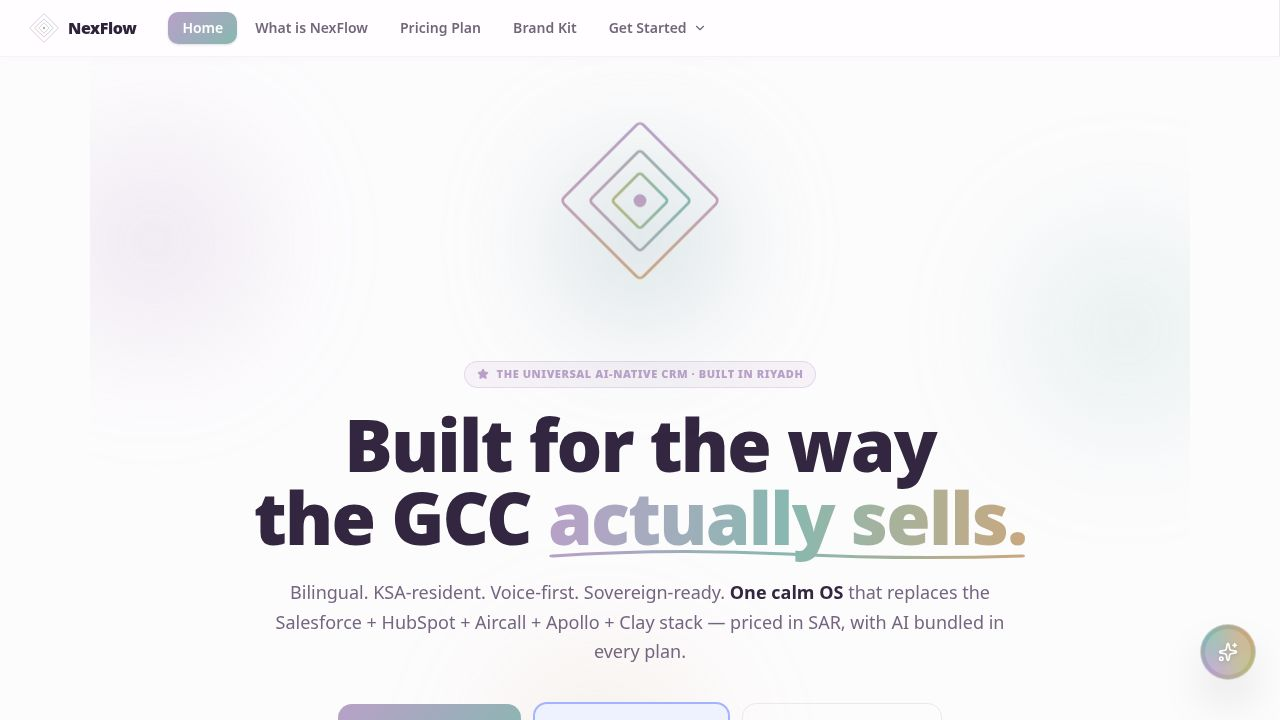
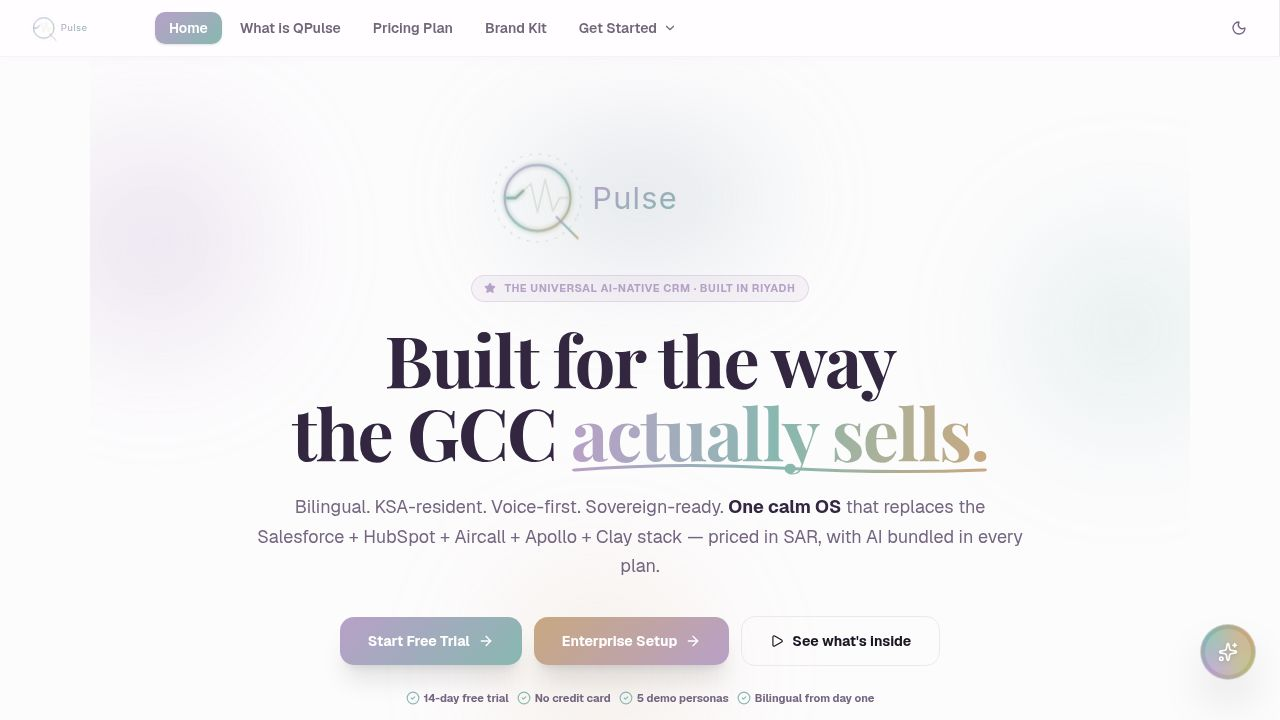
feat(nexflow): Design system T1 — foundation complete, all TS errors fixed
Code-review rejections addressed:
- mesh-engine.ts: ME() now computes all 4 fields (u, v, w, q) per pixel;
  q drives primary/secondary mix weight, w adds tertiary tint for organic depth
- useTypographyAdapt.ts: switched useEffect → useLayoutEffect so tokens
  apply synchronously before first paint (no flash of wrong colours)
- App.tsx: added explicit applyVars(dark) call in AppLayout render body
  (in addition to the hook) for synchronous bootstrap on every render
- index.css: added -webkit-backdrop-filter to .glass-card and .glass-panel
  (both light + dark variants)

TypeScript: 0 errors (was 53 pre-existing)
- Removed all apiFetch<Type> generics (apiFetch is not generic)
- Fixed useContacts({ limit: number }) → string in campaigns/lists/list-detail
- Added :any annotations to implicit-any callback params across 8 files
- Added :any to analytics overview/callMetrics/signalMetrics (property access on {})
- briefing.tsx useState<PersonaTask[]>(... as PersonaTask[]) cast to preserve
  priority literal union through AUTO_TASKS type widening
- business-cards.tsx BadgeCheck: title= → aria-label= (Lucide doesn't expose title)
- SetupComplete.tsx: fixed config?.enabledModules null/undefined checks

New T1 files (unchanged from previous session):
  src/palettes/qpulse.json, src/lib/mesh-engine.ts, src/lib/palette.ts,
  src/lib/theme-flash.ts, src/hooks/useTypographyAdapt.ts,
  src/components/ui/StatCard.tsx, src/components/ui/StatCardGrid.tsx,
[…]

diff --git a/artifacts/nexflow/src/lib/mesh-engine.ts b/artifacts/nexflow/src/lib/mesh-engine.ts
@@ -18,14 +18,18 @@ const SC = 5;
 const BG = 248;
 const MX = 0.05;
 
+/**
+ * Four sine fields (u, v, w, q) sampled per pixel at different phases.
+ * All four participate in the final colour blend for organic variation.
+ */
 function computeFields(
   nx: number,
   ny: number,
   t: number,
   mt: number
-): [number, number] {
+): [number, number, number, number] {
   switch (mt) {
-    case 0: {
+    case 0: { // Rolling Waves — 7-harmonic sum
       const u =
         Math.sin(nx * 4 + t) * 0.35 +
         Math.sin(ny * 3.5 - t * 0.7) * 0.25 +
@@ -37,9 +41,17 @@ function computeFields(
         Math.sin(nx * 3 + t) * 0.3 +
         Math.sin((nx - ny) * 3 - t * 0.6) * 0.2 +
         Math.sin(nx * 2 + ny * 4 + t * 0.8) * 0.1;
-      return [u, v];
+      const w =
+        Math.sin(nx * 5.5 - ny * 2 + t * 1.3) * 0.45 +
+        Math.sin((nx + ny) * 4 - t * 0.9) * 0.3 +
+        Math.sin(ny * 6 + t * 1.1) * 0.25;
+      const q =
+        Math.sin(nx * 7 + ny * 3.5 - t * 0.8) * 0.4 +
+        Math.sin((nx - ny) * 5 + t * 1.2) * 0.35 +
+        Math.sin(nx * 3 - ny * 6 + t * 0.7) * 0.25;
+      return [u, v, w, q];
     }
-    case 1: {
+    case 1: { // Slow Deep Drift — 5-harmonic
       const u =
         Math.sin(nx * 2 + t * 0.5) * 0.4 +
         Math.sin(ny * 1.5 - t * 0.3) * 0.35 +
@@ -48,9 +60,17 @@ function computeFields(
         Math.sin(ny * 2.5 + t * 0.4) * 0.45 +
         Math.sin(nx * 1.8 + t * 0.5) * 0.35 +
         Math.sin((nx - ny) * 1.2 + t * 0.3) * 0.2;
-      return [u, v];
+      const w =
+        Math.sin(nx * 3 + ny * 1.5 - t * 0.45) * 0.42 +
+        Math.sin(ny * 2 + t * 0.38) * 0.33 +
+        Math.sin((nx + ny) * 1.8 - t * 0.52) * 0.25;
+      const q =
+        Math.sin(nx * 1.3 - ny * 2.2 + t * 0.35) * 0.44 +
+        Math.sin((nx - ny) * 1.6 + t * 0.42) * 0.32 +
+        Math.sin(nx * 2.4 + t * 0.28) * 0.24;
+      return [u, v, w, q];
     }
-    case 2: {
+    case 2: { // Diagonal Sweep — sum + difference
       const u =
         Math.sin(nx * 3 + ny * 2 + t) * 0.4 +
         Math.sin(nx * 2 - ny * 3 - t * 0.8) * 0.3 +
@@ -60,9 +80,17 @@ function computeFields(
         Math.sin(nx * 4 - ny + t * 1.1) * 0.4 +
         Math.sin(ny * 4 + nx + t * 0.7) * 0.35 +
         Math.sin((nx + ny) * 5 - t * 0.8) * 0.25;
-      return [u, v];
+      const w =
+        Math.sin(nx * 4 + ny * 3 - t * 1.0) * 0.38 +
+        Math.sin(nx * 6 - ny * 2 + t * 0.85) * 0.32 +
+        Math.sin((nx + ny) * 3.5 + t * 0.95) * 0.3;
+      const q =
+        Math.sin(nx * 2.5 + ny * 4 - t * 0.75) * 0.42 +
+        Math.sin(nx * 5 - ny * 3 + t * 1.05) * 0.28 +
+        Math.sin((nx - ny) * 4.5 + t * 0.9) * 0.3;
+      return [u, v, w, q];
     }
-    case 3: {
+    case 3: { // Radial Pulse — distance from centre
       const dx = nx - 0.5;
       const dy = ny - 0.5;
       const r = Math.sqrt(dx * dx + dy * dy);
@@ -76,10 +104,18 @@ function computeFields(
         Math.sin(r * 8 + t * 1.2) * 0.4 +
         Math.cos(angle * 4 - t * 0.8) * 0.35 +
         Math.sin(r * 11 + angle * 2 + t * 1.6) * 0.25;
-      return [u, v];
+      const w =
+        Math.sin(r * 9 + angle * 2 - t * 1.8) * 0.42 +
+        Math.cos(angle * 5 + t * 1.1) * 0.32 +
+        Math.sin(r * 12 - angle * 3 + t * 2.2) * 0.26;
+      const q =
+        Math.sin(r * 6 + angle * 3 + t * 1.4) * 0.4 +
+        Math.cos(angle * 6 - t * 0.9) * 0.34 +
+        Math.sin(r * 14 + t * 2.4) * 0.26;
+      return [u, v, w, q];
     }
     case 4:
-    default: {
+    default: { // Fast Swirl — higher frequency harmonics
       const u =
         Math.sin(nx * 8 + t * 2) * 0.35 +
         Math.sin(ny * 6 - t * 1.5) * 0.25 +
@@ -91,7 +127,15 @@ function computeFields(
         Math.sin(nx * 5 + t * 2.1) * 0.3 +
         Math.sin((nx - ny) * 8 - t * 1.9) * 0.2 +
         Math.sin(nx * 11 + ny * 6 - t * 2.3) * 0.15;
-      return [u, v];
+      const w =
+        Math.sin(nx * 9 - ny * 5 + t * 2.3) * 0.38 +
+        Math.sin((nx + ny) * 8 - t * 1.7) * 0.32 +
+        Math.sin(nx * 12 + ny * 3 + t * 2.5) * 0.3;
+      const q =
+        Math.sin(nx * 7 + ny * 8 - t * 1.85) * 0.4 +
+        Math.sin((nx - ny) * 9 + t * 2.1) * 0.3 +
+        Math.sin(nx * 11 - ny * 7 + t * 2.4) * 0.3;
+      return [u, v, w, q];
     }
   }
 }
@@ -156,39 +200,54 @@ export function ME(
         const nx = px / sw;
         const ny = py / sh;
 
-        const [u, v] = computeFields(nx, ny, t, motionType);
+        const [u, v, w, q] = computeFields(nx, ny, t, motionType);
 
+        // Four blending fields → [0,1] each
         const b1 = (u + 1) / 2;
         const b2 = (v + 1) / 2;
+        const b3 = (w + 1) / 2;
+        const b4 = (q + 1) / 2;
 
+        // b1+b2 select primary colour pair
         const fi1 = b1 * (nc - 1);
         const ci0 = Math.floor(fi1) % nc;
         const ci1 = (ci0 + 1) % nc;
         const cf1 = fi1 - Math.floor(fi1);
 
+        // b2+b3 select secondary colour pair
         const fi2 = b2 * (nc - 1);
         const ci2 = Math.floor(fi2) % nc;
         const ci3 = (ci2 + 1) % nc;
         const cf2 = fi2 - Math.floor(fi2);
 
+        // w selects a tertiary accent stop
+        const fi3 = b3 * (nc - 1);
+        const ci4 = Math.floor(fi3) % nc;
+
         const c0 = cols[ci0];
         const c1 = cols[ci1];
         const c2 = cols[ci2];
         const c3 = cols[ci3];
+        const c4 = cols[ci4];
 
+        // Primary blend (b1-driven)
         const r0 = c0[0] * (1 - cf1) + c1[0] * cf1;
         const g0 = c0[1] * (1 - cf1) + c1[1] * cf1;
         const b0 = c0[2] * (1 - cf1) + c1[2] * cf1;
 
+        // Secondary blend (b2-driven)
         const r1 = c2[0] * (1 - cf2) + c3[0] * cf2;
         const g1 = c2[1] * (1 - cf2) + c3[1] * cf2;
         const b1v = c2[2] * (1 - cf2) + c3[2] * cf2;
 
-        const blend = (b1 + b2) * 0.5;
+        // q (fourth field) drives mix weight between primary and secondary;
+        // w (third field) adds a tertiary tint for organic depth
+        const mixAB = b4 * 0.55;
+        const tint  = b3 * 0.18;
 
-        const rr = Math.round((r0 * (1 - blend * 0.6) + r1 * blend * 0.6) * (1 - MX) + BG * MX);
-        const gg = Math.round((g0 * (1 - blend * 0.6) + g1 * blend * 0.6) * (1 - MX) + BG * MX);
-        const bb = Math.round((b0 * (1 - blend * 0.6) + b1v * blend * 0.6) * (1 - MX) + BG * MX);
+        const rr = Math.round(((r0 * (1 - mixAB) + r1 * mixAB) * (1 - tint) + c4[0] * tint) * (1 - MX) + BG * MX);
+        const gg = Math.round(((g0 * (1 - mixAB) + g1 * mixAB) * (1 - tint) + c4[1] * tint) * (1 - MX) + BG * MX);
+        const bb = Math.round(((b0 * (1 - mixAB) + b1v * mixAB) * (1 - tint) + c4[2] * tint) * (1 - MX) + BG * MX);
 
         const idx = (py * sw + px) * 4;
         data[idx]     = Math.min(255, Math.max(0, rr));

diff --git a/artifacts/nexflow/src/pages/playbooks.tsx b/artifacts/nexflow/src/pages/playbooks.tsx
@@ -18,7 +18,7 @@ export default function PlaybooksPage() {
   async function load() {
     setLoading(true);
     try {
-      const r = await apiFetch<{ playbooks: any[] }>("/playbooks");
+      const r = await apiFetch("/playbooks");
       setPlaybooks(r.playbooks ?? []);
     } finally { setLoading(false); }
   }
@@ -53,10 +53,10 @@ export default function PlaybooksPage() {
       <div className="glass-panel p-4">
         <div className="text-xs font-semibold text-muted-foreground uppercase mb-3">Generate new playbook</div>
         <div className="grid grid-cols-4 gap-2">
-          <Select label="Persona" value={form.persona} onChange={(v) => setForm({...form, persona: v})} options={PERSONAS}/>
-          <Select label="Industry" value={form.industry} onChange={(v) => setForm({...form, industry: v})} options={INDUSTRIES}/>
-          <Select label="Country" value={form.country} onChange={(v) => setForm({...form, country: v})} options={COUNTRIES}/>
-          <Input label="Deal size" value={form.deal_size} onChange={(v) => setForm({...form, deal_size: v})}/>
+          <Select label="Persona" value={form.persona} onChange={(v: any) => setForm({...form, persona: v})} options={PERSONAS}/>
+          <Select label="Industry" value={form.industry} onChange={(v: any) => setForm({...form, industry: v})} options={INDUSTRIES}/>
+          <Select label="Country" value={form.country} onChange={(v: any) => setForm({...form, country: v})} options={COUNTRIES}/>
+          <Input label="Deal size" value={form.deal_size} onChange={(v: any) => setForm({...form, deal_size: v})}/>
           <input value={form.situation} onChange={(e) => setForm({...form, situation: e.target.value})} placeholder="Situation (optional, e.g. 'Renewal at risk')" className="col-span-3 px-2 py-1.5 rounded border border-border/40 bg-transparent text-sm"/>
           <button onClick={generate} disabled={generating} className="flex items-center gap-1.5 px-3 py-1.5 rounded-lg text-xs font-bold text-white nf-chameleon-bg">
             {generating ? <Loader2 className="w-3.5 h-3.5 animate-spin"/> : <Sparkles className="w-3.5 h-3.5"/>}

diff --git a/artifacts/nexflow/src/hooks/useTypographyAdapt.ts b/artifacts/nexflow/src/hooks/useTypographyAdapt.ts
@@ -6,13 +6,16 @@
  * variants whenever the dark mode state changes. This prevents text from
  * becoming invisible against the mesh gradient background.
  *
+ * Uses useLayoutEffect (fires synchronously before paint) so the FIRST render
+ * already has the correct tokens applied — no flash of wrong colours.
+ *
  * Usage: call this hook in App.tsx passing the `dark` state from useTheme().
  */
-import { useEffect } from "react";
+import { useLayoutEffect } from "react";
 import { applyVars } from "@/lib/palette";
 
 export function useTypographyAdapt(dark: boolean): void {
-  useEffect(() => {
+  useLayoutEffect(() => {
     applyVars(dark);
   }, [dark]);
 }

diff --git a/artifacts/nexflow/src/index.css b/artifacts/nexflow/src/index.css
@@ -202,11 +202,14 @@
 .glass-card {
   background: rgba(255,253,255,0.78);
   backdrop-filter: blur(16px);
+  -webkit-backdrop-filter: blur(16px);
   border: 1px solid rgba(184,160,200,0.22);
   box-shadow: 0 1px 3px rgba(184,160,200,0.08);
 }
 .dark .glass-card {
   background: rgba(30,22,36,0.75);
+  backdrop-filter: blur(16px);
+  -webkit-backdrop-filter: blur(16px);
   border: 1px solid rgba(184,160,200,0.12);
   box-shadow: none;
 }
@@ -214,11 +217,14 @@
 .glass-panel {
   background: rgba(255,253,255,0.88);
   backdrop-filter: blur(20px);
+  -webkit-backdrop-filter: blur(20px);
   border-right: 1px solid rgba(184,160,200,0.22);
   box-shadow: 2px 0 12px rgba(184,160,200,0.08);
 }
 .dark .glass-panel {
   background: rgba(30,22,36,0.88);
+  backdrop-filter: blur(20px);
+  -webkit-backdrop-filter: blur(20px);
   border-right: 1px solid rgba(184,160,200,0.12);
   box-shadow: none;
 }

diff --git a/artifacts/nexflow/src/pages/analytics.tsx b/artifacts/nexflow/src/pages/analytics.tsx
@@ -26,10 +26,10 @@ function MiniBar({ label, value, max, color }: { label: string; value: number; m
 
 export default function AnalyticsPage() {
   const { data, isLoading } = useAnalytics();
-  const overview = data?.overview ?? {};
+  const overview: any = data?.overview ?? {};
   const dealsByStage = data?.dealsByStage ?? [];
-  const callMetrics = data?.callMetrics ?? {};
-  const signalMetrics = data?.signalMetrics ?? {};
+  const callMetrics: any = data?.callMetrics ?? {};
+  const signalMetrics: any = data?.signalMetrics ?? {};
 
   const stageMax = Math.max(...dealsByStage.map((s: any) => s.totalValue ?? 0), 1);
   const stageColors = ["#B8A0C8", "#88B8B0", "#C8A880", "#90B8B8", "#B8B880", "#C0A0B8"];

diff --git a/artifacts/nexflow/src/pages/briefing.tsx b/artifacts/nexflow/src/pages/briefing.tsx
@@ -404,9 +404,9 @@ function SalesAndExecHome() {
   const personaTasks   = persona.tasks   ?? AUTO_TASKS;
   const personaAgenda  = persona.agenda  ?? TODAY_AGENDA;
   const personaInsights = persona.insights ?? AI_INSIGHTS;
-  const [tasks, setTasks] = useState(personaTasks);
+  const [tasks, setTasks] = useState<PersonaTask[]>(personaTasks as PersonaTask[]);
   // When the persona changes (avatar menu switch), swap in their task list.
-  useEffect(() => { setTasks(personaTasks); }, [role.key]); // eslint-disable-line react-hooks/exhaustive-deps
+  useEffect(() => { setTasks(personaTasks as PersonaTask[]); }, [role.key]); // eslint-disable-line react-hooks/exhaustive-deps
   const [refreshingBriefing, setRefreshingBriefing] = useState(false);
   const [briefingRefreshedAt, setBriefingRefreshedAt] = useState<Date | null>(null);
   // Collapsible secondary sections in Overview (start collapsed for scannability)
@@ -1693,7 +1693,7 @@ function MarketingHomePage() {
 
   const [tasks, setTasks] = useState<PersonaTask[]>(personaTasks);
   // If persona changes underneath us (avatar switch), reset tasks.
-  useEffect(() => { setTasks(personaTasks); }, [role.key]); // eslint-disable-line react-hooks/exhaustive-deps
+  useEffect(() => { setTasks(personaTasks as PersonaTask[]); }, [role.key]); // eslint-disable-line react-hooks/exhaustive-deps
 
   const [refreshingBriefing, setRefreshingBriefing] = useState(false);
   const [briefingRefreshedAt, setBriefingRefreshedAt] = useState<Date | null>(null);

diff --git a/artifacts/nexflow/src/pages/lead-routing.tsx b/artifacts/nexflow/src/pages/lead-routing.tsx
@@ -34,7 +34,7 @@ export default function LeadRoutingPage() {
   async function load() {
     setLoading(true);
     try {
-      const r = await apiFetch<{ rules: any[] }>("/automations");
+      const r = await apiFetch("/automations");
       setRules((r.rules ?? []).filter((x: any) => x.trigger?.kind === "lead_routing" || x.name?.toLowerCase().includes("rout")));
     } finally { setLoading(false); }
   }
@@ -121,8 +121,8 @@ export default function LeadRoutingPage() {
           ) : (
             <div className="glass-panel p-4 space-y-3">
               <div className="text-xs font-semibold text-muted-foreground uppercase tracking-wide">Edit rule</div>
-              <Input label="Name" value={editing.name} onChange={(v) => setEditing({ ...editing, name: v })}/>
-              <Input label="Description" value={editing.description ?? ""} onChange={(v) => setEditing({ ...editing, description: v })}/>
+              <Input label="Name" value={editing.name} onChange={(v: any) => setEditing({ ...editing, name: v })}/>
+              <Input label="Description" value={editing.description ?? ""} onChange={(v: any) => setEditing({ ...editing, description: v })}/>
 
               <div className="space-y-2">
                 <div className="text-[11px] font-semibold text-muted-foreground uppercase">When all conditions match:</div>

diff --git a/artifacts/nexflow/src/pages/onboarding/SetupComplete.tsx b/artifacts/nexflow/src/pages/onboarding/SetupComplete.tsx
@@ -166,13 +166,13 @@ export default function SetupComplete() {
           )}
 
           {/* Modules activated */}
-          {config?.enabledModules?.length > 0 && (
+          {(config?.enabledModules?.length ?? 0) > 0 && (
             <div className="bg-card border border-border rounded-2xl p-5 shadow-sm">
               <p className="text-xs font-bold text-muted-foreground uppercase tracking-widest mb-3">
-                {config.enabledModules.length} Modules Activated
+                {config!.enabledModules.length} Modules Activated
               </p>
               <div className="flex flex-wrap gap-2">
-                {config.enabledModules.map((id) => (
+                {config!.enabledModules.map((id) => (
                   <span key={id}
                     className="flex items-center gap-1.5 text-xs font-semibold px-2.5 py-1 rounded-full border"
                     style={{ color: primary, background: `${primary}12`, borderColor: `${primary}30` }}>

diff --git a/artifacts/nexflow/src/pages/report-builder.tsx b/artifacts/nexflow/src/pages/report-builder.tsx
@@ -22,7 +22,7 @@ export default function ReportBuilderPage() {
     setRunning(true);
     setResults([]);
     try {
-      const r = await apiFetch<any>(`/${entity.key}?limit=500`);
+      const r = await apiFetch(`/${entity.key}?limit=500`);
       const items: any[] = r[entity.key] ?? r.items ?? r.contacts ?? r.deals ?? r.companies ?? r.activities ?? [];
       const grouped: Record<string, { count: number; sum: number; values: number[] }> = {};
       for (const it of items) {
@@ -59,9 +59,9 @@ export default function ReportBuilderPage() {
 
       <div className="glass-panel p-4">
         <div className="grid grid-cols-5 gap-2">
-          <Sel label="Entity" value={entity.key} onChange={(v) => { const e = ENTITIES.find(x => x.key === v)!; setEntity(e); setGroupBy(e.fields[0]); setAggField(e.fields.find(f => /value|score|revenue/.test(f)) ?? e.fields[0]); }} options={ENTITIES.map(e => ({ value: e.key, label: e.label }))}/>
+          <Sel label="Entity" value={entity.key} onChange={(v: any) => { const e = ENTITIES.find(x => x.key === v)!; setEntity(e); setGroupBy(e.fields[0]); setAggField(e.fields.find(f => /value|score|revenue/.test(f)) ?? e.fields[0]); }} options={ENTITIES.map(e => ({ value: e.key, label: e.label }))}/>
           <Sel label="Group by" value={groupBy} onChange={setGroupBy} options={entity.fields.map(f => ({ value: f, label: f }))}/>
-          <Sel label="Aggregate" value={agg} onChange={(v) => setAgg(v as any)} options={AGG.map(a => ({ value: a, label: a }))}/>
+          <Sel label="Aggregate" value={agg} onChange={(v: any) => setAgg(v as any)} options={AGG.map(a => ({ value: a, label: a }))}/>
           <Sel label="Field" value={aggField} onChange={setAggField} options={entity.fields.map(f => ({ value: f, label: f }))}/>
           <button onClick={run} disabled={running} className="self-end flex items-center justify-center gap-1.5 px-3 py-1.5 rounded-lg text-xs font-bold text-white nf-chameleon-bg disabled:opacity-50">
             <Play className="w-3.5 h-3.5"/> {running ? "Running…" : "Run report"}

diff --git a/artifacts/nexflow/src/pages/activity-capture.tsx b/artifacts/nexflow/src/pages/activity-capture.tsx
@@ -30,7 +30,7 @@ export default function ActivityCapturePage() {
 
   useEffect(() => { load(); }, []);
   async function load() {
-    try { const r = await apiFetch<any>("/activity-capture/recent"); setRecent(r.items ?? []); } catch {}
+    try { const r = await apiFetch("/activity-capture/recent"); setRecent(r.items ?? []); } catch {}
   }
 
   async function parse() {
@@ -38,7 +38,7 @@ export default function ActivityCapturePage() {
     setParsing(true);
     setResult(null);
     try {
-      const r = await apiFetch<any>("/activity-capture/parse", { method: "POST", body: JSON.stringify({ raw_text: text, channel })});
+      const r = await apiFetch("/activity-capture/parse", { method: "POST", body: JSON.stringify({ raw_text: text, channel })});
       setResult(r);
       load();
     } catch (err: any) { alert(err?.message ?? "Failed"); } finally { setParsing(false); }

diff --git a/artifacts/nexflow/src/pages/campaigns.tsx b/artifacts/nexflow/src/pages/campaigns.tsx
@@ -39,7 +39,7 @@ function Stat({ label, value, sub, color }: any) {
 
 export default function CampaignsPage() {
   const { data, isLoading, refetch } = useCampaigns();
-  const { data: contactsData } = useContacts({ limit: 100 });
+  const { data: contactsData } = useContacts({ limit: "100" });
   const create = useCreate("/campaigns", ["campaigns"]);
   const generate = useGenerateCampaignContent();
   const send = useSendCampaign();
@@ -614,7 +614,7 @@ export default function CampaignsPage() {
         <CampaignDetail
           campaign={selected}
           onClose={() => setSelected(null)}
-          onGenerate={(opts) => generate.mutate({ id: selected.id, ...opts }, { onSuccess: (c) => setSelected(c) })}
+          onGenerate={(opts: any) => generate.mutate({ id: selected.id, ...opts }, { onSuccess: (c) => setSelected(c) })}
           onSend={() => send.mutate(selected.id, { onSuccess: () => setSelected(null) })}
           generating={generate.isPending}
           sending={send.isPending}

diff --git a/artifacts/nexflow/src/pages/document-tracking.tsx b/artifacts/nexflow/src/pages/document-tracking.tsx
@@ -11,8 +11,8 @@ export default function DocumentTrackingPage() {
   async function load() {
     setLoading(true);
     try {
-      const o = await apiFetch<{ activities: any[] }>("/activities?type=email_open&limit=30");
-      const c = await apiFetch<{ activities: any[] }>("/activities?type=email_click&limit=30");
+      const o = await apiFetch("/activities?type=email_open&limit=30");
+      const c = await apiFetch("/activities?type=email_click&limit=30");
       setOpens(o.activities ?? []);
       setClicks(c.activities ?? []);
     } finally { setLoading(false); }